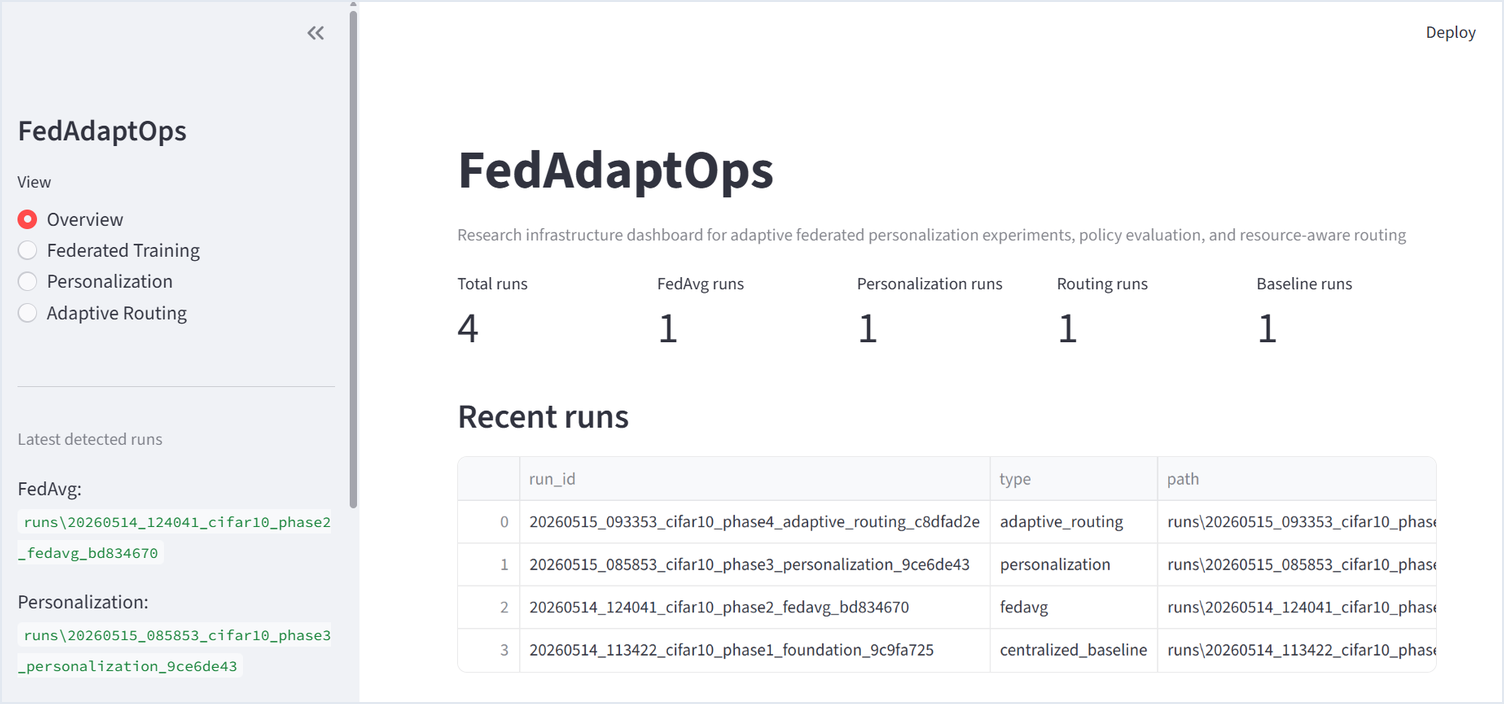
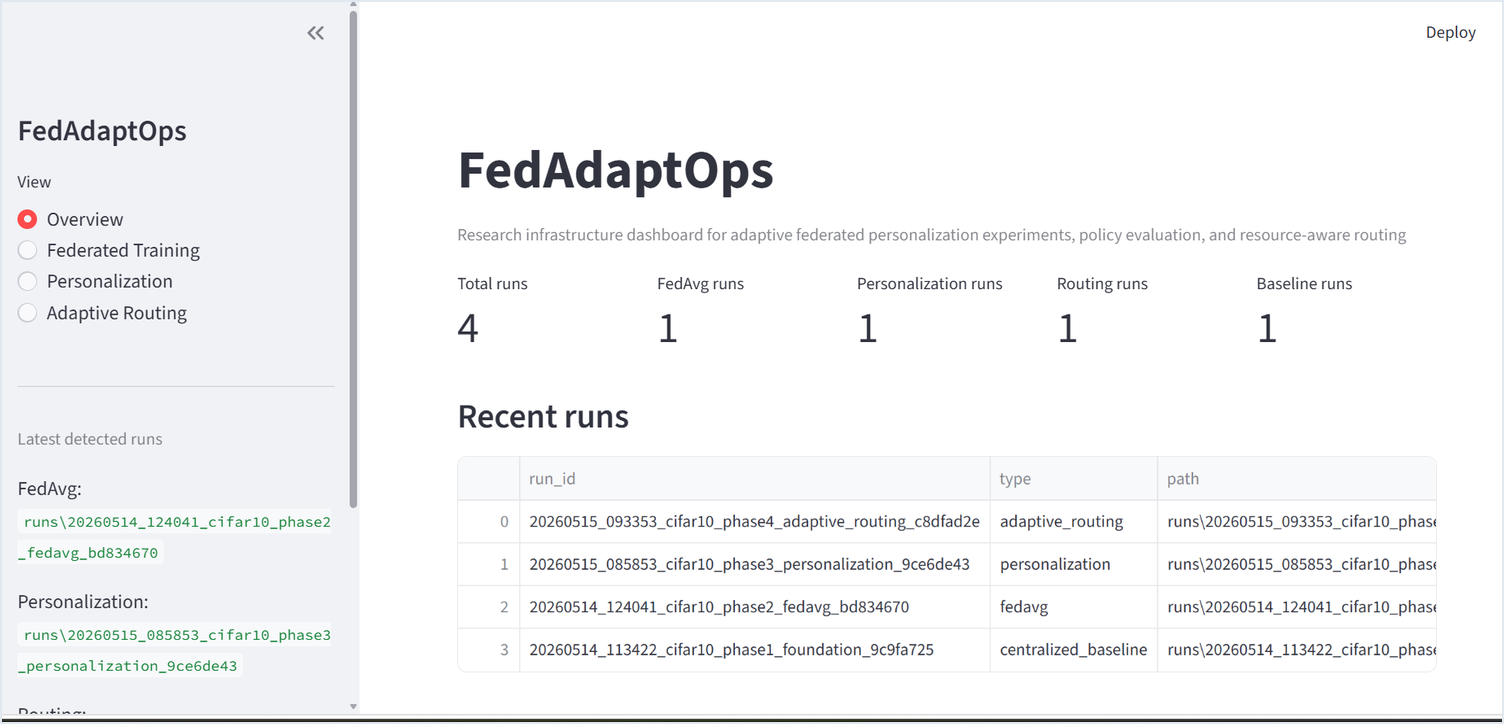
Keep README screenshots focused on dashboard views

diff --git a/README.md b/README.md
@@ -24,10 +24,6 @@ FedAdaptOps brings together non-IID federated training, per-client personalizati
 
 ![FedAdaptOps adaptive routing dashboard](docs/assets/dashboard_routing.png)
 
-### FastAPI run inspection service
-
-![FedAdaptOps FastAPI docs](docs/assets/api_docs.png)
-
 ---
 
 ## Why this project exists
